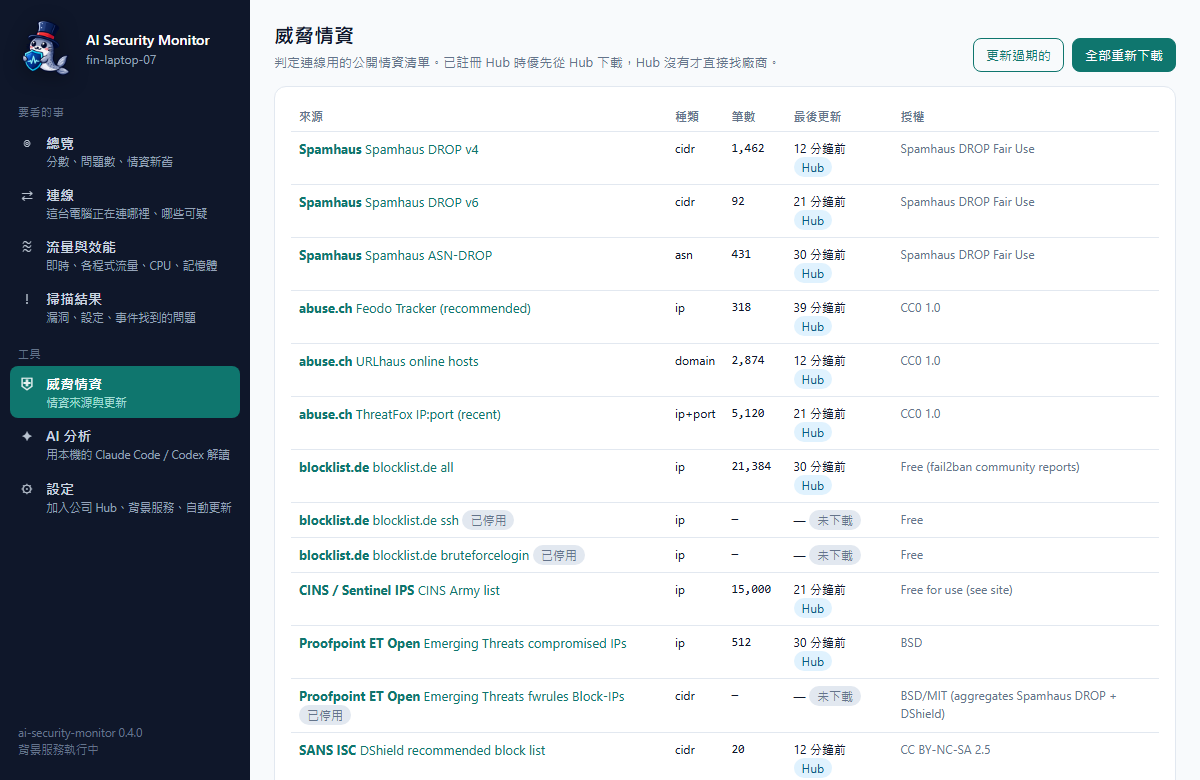
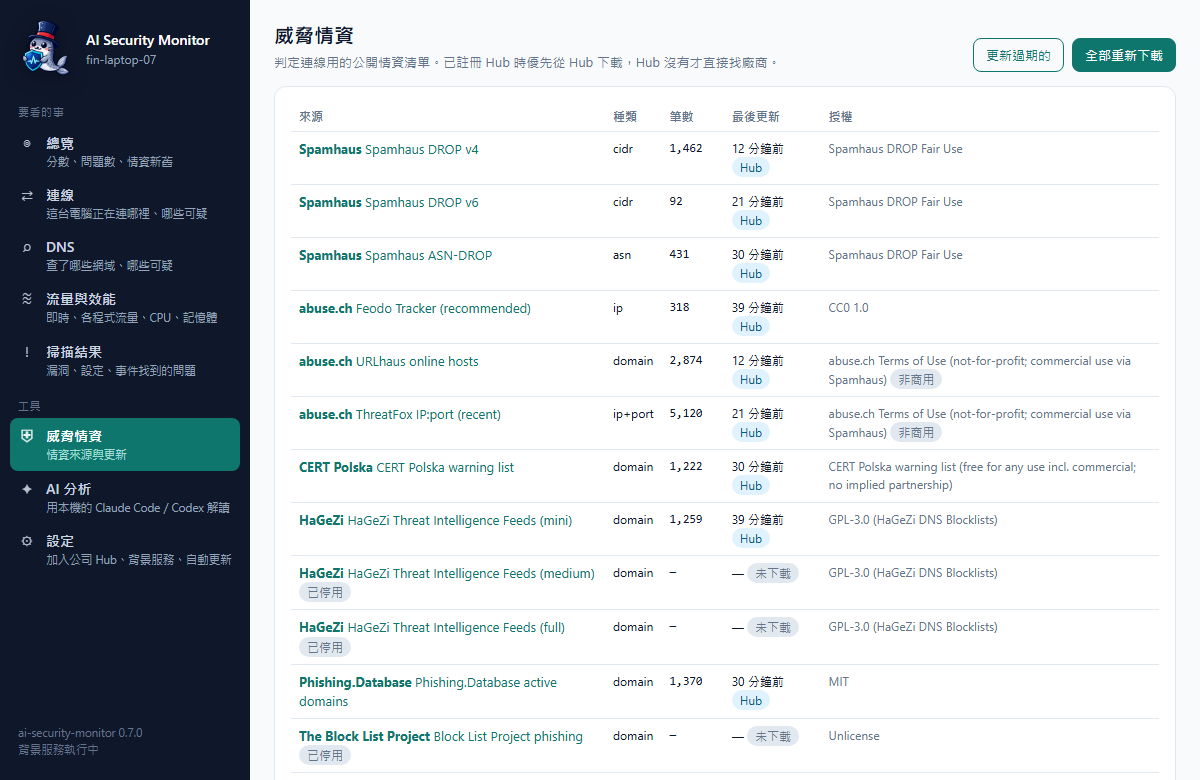
docs+feat(intel): explain non-commercial sources in the README; Hub defaults to non-commercial; compose versions
- README (zh/en): new section "Company or personal use?" with the first-launch
  screenshot, what each choice does, what counts as non-commercial, and every
  non-commercial-only source (DShield, URLhaus, ThreatFox, AbuseIPDB free, FireHOL
  level1, ET block list, Phishing Army, GreyNoise/CrowdSec/OTX) with the reason and
  what to do for company use; FAQ links to it
- registry: FireHOL level1 and ET block list include DShield, so they are now
  non-commercial only; notes describe the new behaviour
- Hub: intel usage defaults to personal / non-commercial; company deployments switch
  on the web page, via AI_SECURITY_MONITOR_HUB_INTEL_USAGE, or with
  docker/compose.commercial.yml (compose.noncommercial.yml for the other way), which
  overlay any Hub compose file
- desktop screenshot script: first-run dialog shot, non-commercial badges

diff --git a/hub/components/admin/IntelUsageSetting.tsx b/hub/components/admin/IntelUsageSetting.tsx
@@ -1,6 +1,6 @@
 'use client';
 
-// 情資頁的「情資來源授權」：Hub 是公司／商業用途（預設）還是個人／非商業用途。非商用才鏡像只限非商業用途的來源給主機。
+// 情資頁的「情資來源授權」：Hub 是公司／商業用途還是個人／非商業用途（預設）。非商用才鏡像只限非商業用途的來源給主機。
 import { useRouter } from 'next/navigation';
 import { useState } from 'react';
 import { useT } from '@/lib/i18n/client';
@@ -48,11 +48,11 @@ export function IntelUsageSetting({ usage, locked, sources }: { usage: Usage; lo
   return (
     <div className="space-y-2">
       <p className="text-sm text-slate-600 dark:text-slate-300">
-        {t('情資來源各有授權：有些只准個人或非營利使用（例如 DShield、URLhaus），公司或營利用途要另外向廠商買授權。選「公司／商業用途」時 Hub 只鏡像可以商用的來源。')}
+        {t('情資來源各有授權：有些只准個人或非營利使用（例如 DShield、URLhaus），公司或營利用途要另外向廠商買授權。Hub 預設是個人／非商業用途；公司部署請改成「公司／商業用途」，Hub 就只鏡像可以商用的來源。')}
       </p>
       <div className="flex flex-col gap-2 sm:flex-row">
-        {option('commercial', t('公司／商業用途（預設）'), t('只鏡像可以商用的情資來源，大部分來源都可以。'))}
-        {option('noncommercial', t('個人／非商業用途'), t('另外鏡像 {n} 個只限非商業用途的來源：{list}', { n: sources.length, list: sources.join('、') }))}
+        {option('commercial', t('公司／商業用途'), t('只鏡像可以商用的情資來源，大部分來源都可以。'))}
+        {option('noncommercial', t('個人／非商業用途（預設）'), t('另外鏡像 {n} 個只限非商業用途的來源：{list}', { n: sources.length, list: sources.join('、') }))}
       </div>
       {locked ? <p className="text-xs text-slate-500">{t('由環境變數 AI_SECURITY_MONITOR_HUB_INTEL_USAGE 指定，網頁上不能改。')}</p> : null}
       <p className="text-xs text-slate-500">{t('各台電腦的桌面版第一次打開時也會自己問一次，兩邊分開設定：主機選商用時，就算 Hub 有鏡像也不會用。')}</p>

diff --git a/hub/tests/routes/feeds.test.ts b/hub/tests/routes/feeds.test.ts
@@ -62,6 +62,7 @@ afterAll(() => {
 });
 
 beforeEach(() => {
+  process.env.ASA_HUB_INTEL_USAGE = 'commercial';
   process.env.ASA_HUB_ADMIN_SECRET = 'test-admin';
   process.env.ASA_HUB_CLIENT_SECRETS = 'client-a';
   process.env.ASA_HUB_SNAPSHOT_MIN_INTERVAL_MS = '0';
@@ -168,8 +169,12 @@ describe('feed mirror', () => {
 
   it('mirrors noncommercial-only feeds only when the Hub is set to noncommercial use', async () => {
     const put = (usage: unknown, headers = admin) => usagePut(req('/api/v1/admin/intel-usage', { method: 'PUT', body: { usage }, headers }));
-    expect(await (await usageGet(req('/api/v1/admin/intel-usage', { headers: admin }))).json()).toEqual({ usage: 'commercial', source: 'default' });
-    // 商用（預設）：不同步、不給主機
+    delete process.env.ASA_HUB_INTEL_USAGE;
+    resetEnvForTests();
+    // 沒設定：預設個人／非商業用途
+    expect(await (await usageGet(req('/api/v1/admin/intel-usage', { headers: admin }))).json()).toEqual({ usage: 'noncommercial', source: 'default' });
+    expect((await put('commercial')).status).toBe(200);
+    // 商用：不同步、不給主機
     expect((await syncFeeds({ force: true })).map((o) => o.feed_id)).not.toContain('test-nc');
     expect((await feedRoute(req('/api/v1/feeds/test-nc', { headers: client }), { params: Promise.resolve({ id: 'test-nc' }) })).status).toBe(404);
 
@@ -178,8 +183,11 @@ describe('feed mirror', () => {
     const r = await put('noncommercial');
     expect(r.status).toBe(200);
     expect(await r.json()).toEqual({ usage: 'noncommercial', source: 'settings' });
-    const [a] = await db.select().from(auditLog).where(eq(auditLog.action, 'intel_usage.updated'));
-    expect(a.details).toMatchObject({ before: 'commercial', after: 'noncommercial' });
+    const updates = await db.select().from(auditLog).where(eq(auditLog.action, 'intel_usage.updated'));
+    expect(updates.map((u) => u.details)).toEqual([
+      expect.objectContaining({ before: 'noncommercial', after: 'commercial' }),
+      expect.objectContaining({ before: 'commercial', after: 'noncommercial' }),
+    ]);
 
     resetMirrorStateForTests();
     expect((await syncFeeds({ force: true })).map((o) => o.feed_id)).toContain('test-nc');

diff --git a/hub/messages/en.ts b/hub/messages/en.ts
@@ -1661,4 +1661,7 @@ export const en: Record<string, string> = {
   '另外鏡像 {n} 個只限非商業用途的來源：{list}': 'Also mirror {n} sources limited to non-commercial use: {list}',
   '由環境變數 AI_SECURITY_MONITOR_HUB_INTEL_USAGE 指定，網頁上不能改。': 'Set by the AI_SECURITY_MONITOR_HUB_INTEL_USAGE environment variable; it cannot be changed here.',
   '各台電腦的桌面版第一次打開時也會自己問一次，兩邊分開設定：主機選商用時，就算 Hub 有鏡像也不會用。': 'Each computer\'s desktop app also asks once on first launch; the two are set separately, and a host set to business use ignores these sources even when the Hub mirrors them.',
+  '公司／商業用途': 'Company / business use',
+  '個人／非商業用途（預設）': 'Personal / non-commercial use (default)',
+  '情資來源各有授權：有些只准個人或非營利使用（例如 DShield、URLhaus），公司或營利用途要另外向廠商買授權。Hub 預設是個人／非商業用途；公司部署請改成「公司／商業用途」，Hub 就只鏡像可以商用的來源。': 'Each threat-intel source has its own licence: some may only be used for personal or non-profit purposes (for example DShield, URLhaus), and company or for-profit use needs a licence from the vendor. The Hub defaults to personal / non-commercial use; for a company deployment switch to "company / business use" and the Hub only mirrors sources licensed for commercial use.',
 };

diff --git a/hub/lib/intel/usage.ts b/hub/lib/intel/usage.ts
@@ -1,5 +1,5 @@
 // Hub 的情資使用情境：只限非商業用途的來源（授權 commercial_ok=false，例如 DShield、URLhaus、ThreatFox）只在「非商用」時鏡像給主機。
-// 環境變數 AI_SECURITY_MONITOR_HUB_INTEL_USAGE（commercial／noncommercial）優先並鎖定網頁設定；預設商用（Hub 多半是公司在跑）。
+// 環境變數 AI_SECURITY_MONITOR_HUB_INTEL_USAGE（commercial／noncommercial）優先並鎖定網頁設定；預設非商用（公司部署請在網頁或環境變數改成 commercial）。
 import { eq } from 'drizzle-orm';
 import { settings } from '@/drizzle/schema';
 import type { DB } from '@/lib/db';
@@ -17,7 +17,7 @@ export async function getIntelUsage(db: DB): Promise<{ usage: IntelUsage; source
   if (isIntelUsage(fromEnv)) return { usage: fromEnv, source: 'env' };
   const row = (await db.select().from(settings).where(eq(settings.key, KEY)).limit(1))[0];
   if (isIntelUsage(row?.value)) return { usage: row.value, source: 'settings' };
-  return { usage: 'commercial', source: 'default' };
+  return { usage: 'noncommercial', source: 'default' };
 }
 
 /** 能不能鏡像只限非商業用途的來源（讀不到資料庫時當作不能）。 */

diff --git a/agent/src/firewall/select.rs b/agent/src/firewall/select.rs
@@ -184,7 +184,12 @@ mod tests {
         let al = Allowlist::default();
         let kg = KnownGood::load();
         let local: Vec<IpAddr> = vec!["93.184.216.34".parse().unwrap()];
-        let (nets, st) = select(&db, &opts(&local, &al, &kg));
+        // FireHOL level1 內含 DShield，只限非商用：這裡測的是保留／過寬網段，所以允許非商用
+        let o = SelectOpts {
+            allow_noncommercial: true,
+            ..opts(&local, &al, &kg)
+        };
+        let (nets, st) = select(&db, &o);
         let s: Vec<String> = nets.iter().map(|n| n.to_string()).collect();
         assert_eq!(s, vec!["45.0.0.0/15"]);
         assert_eq!(st.skipped_reserved, 6);

diff --git a/README.en.md b/README.en.md
@@ -177,6 +177,52 @@ ai-security-monitor service install --system --yes  # install as a service that 
 Without `--yes`, commands that change the system (`service install`, blocking an IP, …) only print what they would do and change nothing; add `--yes` once you've read it.
 To report to a Hub, join it as in [scenario B](#scenario-b-i-manage-several-computers-in-an-office) (`enroll --auto` works on servers too).
 
+## Company or personal use? (threat intel licences)
+
+**The program itself is MIT licensed: free for companies and individuals.** The threat intel it uses to decide whether an IP or domain is bad, however, is downloaded from vendors, and **each has its own licence**: most allow commercial use, a few only allow personal or non-profit use.
+
+So the desktop app asks once, the first time you open it:
+
+![First launch: is this computer for company or personal use?](docs/images/desktop-first-run.png)
+
+| You choose | What happens |
+|---|---|
+| **Company / business use** | Only sources licensed for commercial use (19 are on by default, e.g. abuse.ch Feodo Tracker, Spamhaus DROP, CISA KEV, Emerging Threats compromised, CINS Army, HaGeZi, CERT.PL). The non-commercial-only sources below are **not downloaded, matched, blocked or queried**. |
+| **Personal / non-commercial use** | The non-commercial-only sources below are turned on as well, for better coverage. |
+| Not chosen yet (command line, servers) | Treated as company use. |
+
+**What counts as non-commercial?** Usually: your own computer at home, students' coursework or research, non-profit organisations. **Company computers, your own studio, and computers you use for paid work all count as commercial**; choose company use. Vendors define it slightly differently; if in doubt, choose company use or ask the vendor. (This is a summary, not legal advice; terms change, so check again before commercial use.)
+
+**Sources limited to non-commercial use, and why:**
+
+| Source | What it provides | Why non-commercial only | For company use |
+|---|---|---|---|
+| **DShield** (SANS Internet Storm Center) | Networks scanning and attacking others most often right now | Licensed CC BY-NC-SA 2.5; "NC" means no commercial use, and **alerting on it counts as use** | Ask SANS ISC |
+| **URLhaus** (abuse.ch) | URLs and hosts spreading malware | Since 2025-11-04 abuse.ch's terms only allow not-for-profit use | Subscribe via Spamhaus |
+| **ThreatFox** (abuse.ch) | Addresses malware calls back to (IP:port, e.g. attackers' command servers) | Same as above | Subscribe via Spamhaus |
+| **AbuseIPDB free plan** | Online lookup: how many people reported an IP for abuse | The free plan (1,000 lookups a day) forbids commercial use | Buy a paid AbuseIPDB plan |
+| **FireHOL level1** | Block list aggregated from several sources | **Includes DShield**, so the whole list inherits DShield's restriction | Use the individual sources instead (Spamhaus DROP, Feodo, … are on by default) |
+| Emerging Threats block list (off by default) | Aggregated block list | Also includes DShield | Same as above |
+| Phishing Army (off by default) | Phishing domains | Licence limited to non-commercial use | Ask Phishing Army |
+| GreyNoise Community, CrowdSec CTI, AlienVault OTX (off by default, need your own key) | Online IP reputation | Free / community plans are non-commercial | Buy the vendor's commercial plan |
+
+**Where to change it:**
+
+- **Desktop app**: Settings → Threat intel licensing. The Threat intel page marks these sources *non-commercial*, and *not used (non-commercial only)* under company use.
+- **Command line / servers**: `ai-security-monitor config set intel.usage commercial` (or `noncommercial`).
+- **Security Hub**: Threat intel → Threat intel licensing. The Hub **defaults to personal / non-commercial use** (it also mirrors the non-commercial-only sources to every computer); **for a company deployment switch it to company use**, and the Hub only mirrors sources licensed for commercial use. The Hub and each computer are set separately: a computer set to company use ignores these sources even if the Hub mirrors them.
+- **Pick the version when deploying with Docker**: add one more file after your usual compose file (server, standalone and protective-DNS variants all work); the web setting is then locked:
+
+  ```bash
+  # Company / business use
+  docker compose -f docker/compose.yml -f docker/compose.commercial.yml --env-file .env up -d
+  # Personal / non-commercial use
+  docker compose -f docker/compose.yml -f docker/compose.noncommercial.yml --env-file .env up -d
+  ```
+
+  Setting `AI_SECURITY_MONITOR_HUB_INTEL_USAGE=commercial` (or `noncommercial`) in `.env` does the same.
+- **Bought a commercial licence?** Choose personal / non-commercial use to turn the sources on, then turn off the ones you did not license with `ai-security-monitor intel disable <id>`.
+
 ## FAQ
 
 <details>
@@ -252,7 +298,7 @@ If nothing works, ask the administrator for the Hub URL: enter it under "Or ente
 <details>
 <summary><b>Can I use it commercially for free?</b></summary>
 
-The code is MIT licensed, so yes. Some threat intel sources, however, only allow non-commercial use (DShield, URLhaus, ThreatFox, the free AbuseIPDB plan, …). The desktop app asks on first launch whether it is for company / business or personal / non-commercial use: company uses only sources licensed for commercial use, personal also turns on the non-commercial-only ones; change it later under Settings → Threat intel licensing. On the command line use `ai-security-monitor config set intel.usage commercial` (or `noncommercial`); the Hub has the same setting under Threat intel → Threat intel licensing (business use by default). See [Data sources and licenses](#data-sources-and-licenses).
+The code is MIT licensed, so yes. Some threat intel sources, however, only allow non-commercial use (DShield, URLhaus, ThreatFox, the free AbuseIPDB plan, FireHOL level1, …). The desktop app asks on first launch whether it is for company / business or personal / non-commercial use: company uses only sources licensed for commercial use, personal also turns on the non-commercial-only ones. The Hub defaults to personal / non-commercial use; switch it to company use for a company deployment (with Docker: `docker/compose.commercial.yml`). Why each source is limited, what to do for company use and where to change it: [Company or personal use?](#company-or-personal-use-threat-intel-licences).
 </details>
 
 <details>

diff --git a/CHANGELOG.md b/CHANGELOG.md
@@ -9,8 +9,8 @@
   **升級注意**：之前用 `--profile dns` 跑防護 DNS 的，改用含防護 DNS 的那份（`-f docker/compose.dns.yml`，單機版 `compose.standalone.dns.yml`）。
 - 資安報告的危險／可疑 IP 表格：「判定」欄不再擠成一字一行，危險標紅、可疑標橘。README 截圖全部依 0.7.0 重拍（示範的防護 DNS 伺服器顯示在線）。
 - **macOS 桌面版不再顯示「已損毀」**：桌面版沒有 Apple 開發者簽章，改用 ad-hoc 簽章把整個 .app 簽好（發版時用 `codesign --verify` 檢查），Apple Silicon 上從「已損毀，無法打開」變成可以在「系統設定 → 隱私權與安全性」按「強制打開」。另外新增一行安裝：`curl -fsSL https://github.com/markku636/ai-security-monitor/releases/latest/download/install.sh | sh -s -- --desktop`，依晶片下載 dmg、比對 SHA256、裝進「應用程式」，用 curl 下載不會被加上隔離屬性，打開時完全不會被 Gatekeeper 擋。
-- **第一次打開時選「公司用」或「個人用」，只限非商業用途的情資來源只在個人用時開啟**：DShield、URLhaus、ThreatFox、Phishing Army、AbuseIPDB／GreyNoise／CrowdSec／OTX 的免費版只准個人或非營利使用。桌面版第一次打開會問「這台電腦是公司用，還是個人用？」：選「公司／商業用途」只用可以商用的來源，選「個人／非商業用途」另外開啟這些來源；之後在「設定 → 情資來源授權」改，威脅情資頁會標出哪些來源「只限非商用」、哪些因此「未使用」。商用情境下這些來源不下載、不比對、不封鎖，線上查詢也不用。命令列：`ai-security-monitor config set intel.usage commercial|noncommercial`（舊的 `intel.allow_noncommercial true|false` 一樣有效）；`intel enable` 只限非商用的來源時會提示先改使用情境。Hub 也有同樣的設定（「威脅情資 → 情資來源授權」，或環境變數 `AI_SECURITY_MONITOR_HUB_INTEL_USAGE`），預設商用：只鏡像可以商用的來源。
-  **升級注意**：還沒選過使用情境的電腦（命令列版、伺服器、還沒打開新版桌面版的）一律當作商用，URLhaus、ThreatFox、DShield 會停用；個人或非營利使用請執行 `ai-security-monitor config set intel.usage noncommercial`。Hub 預設不再鏡像這三個來源，個人使用的 Hub 請到「威脅情資 → 情資來源授權」改成個人／非商業用途。
+- **第一次打開時選「公司用」或「個人用」，只限非商業用途的情資來源只在個人用時開啟**：DShield、URLhaus、ThreatFox、Phishing Army、AbuseIPDB／GreyNoise／CrowdSec／OTX 的免費版只准個人或非營利使用。桌面版第一次打開會問「這台電腦是公司用，還是個人用？」：選「公司／商業用途」只用可以商用的來源，選「個人／非商業用途」另外開啟這些來源；之後在「設定 → 情資來源授權」改，威脅情資頁會標出哪些來源「只限非商用」、哪些因此「未使用」。商用情境下這些來源不下載、不比對、不封鎖，線上查詢也不用。命令列：`ai-security-monitor config set intel.usage commercial|noncommercial`（舊的 `intel.allow_noncommercial true|false` 一樣有效）；`intel enable` 只限非商用的來源時會提示先改使用情境。Hub 也有同樣的設定（「威脅情資 → 情資來源授權」、環境變數 `AI_SECURITY_MONITOR_HUB_INTEL_USAGE`，或 Docker 疊加 `docker/compose.commercial.yml`／`compose.noncommercial.yml`），預設個人／非商業用途；公司部署請改成公司／商業用途，Hub 就只鏡像可以商用的來源。FireHOL level1 與 Emerging Threats block list 內含 DShield，改標成只限非商用。
+  **升級注意**：還沒選過使用情境的電腦（命令列版、伺服器、還沒打開新版桌面版的）一律當作商用，URLhaus、ThreatFox、DShield 會停用；個人或非營利使用請執行 `ai-security-monitor config set intel.usage noncommercial`。**公司部署的 Hub 請到「威脅情資 → 情資來源授權」改成公司／商業用途**（或設 `AI_SECURITY_MONITOR_HUB_INTEL_USAGE=commercial`）。
 - **安全性修正**（自行檢查發現）：
   - Windows 系統服務：設定目錄（%ProgramData%\ai-security-monitor）原本繼承「一般使用者可以建立檔案」，一般使用者能放檔案給以 SYSTEM 執行的服務讀；現在安裝與每次服務啟動時都收緊成只有 SYSTEM 與 Administrators 能存取（擁有者改成 Administrators）。防護 DNS 自動還原只會寫 `/etc/resolv.conf`，Windows 還原腳本只放合法的 IP，不再照紀錄檔寫任意路徑。
   - 密鑰檔（secrets.json）在 Unix 上一建立就是 0600，不再有短暫可讀的空窗。

diff --git a/docs/docker.en.md b/docs/docker.en.md
@@ -53,6 +53,22 @@ docker compose -f docker/compose.standalone.yml --env-file .env up -d --remove-o
 
 Blocking switch, pointing devices at it and Linux host networking: see [dns-server.en.md](dns-server.en.md).
 
+## Commercial / non-commercial versions
+
+Some threat intel sources only allow personal or non-profit use (DShield, URLhaus, ThreatFox, …; see the README section [Company or personal use?](../README.en.md#company-or-personal-use-threat-intel-licences)). The Hub defaults to **personal / non-commercial use**; for a company deployment add one more file after any of the compose files above:
+
+| Version | Extra file | Intel the Hub mirrors to computers |
+|---|---|---|
+| Company / business use | `-f docker/compose.commercial.yml` | Only sources licensed for commercial use |
+| Personal / non-commercial use | `-f docker/compose.noncommercial.yml` | Also the non-commercial-only sources |
+
+```bash
+docker compose -f docker/compose.yml -f docker/compose.commercial.yml --env-file .env up -d
+docker compose -f docker/compose.standalone.dns.yml -f docker/compose.noncommercial.yml --env-file .env up -d
+```
+
+With either file the web setting (Threat intel → Threat intel licensing) is locked; without one you choose on the web page. Setting `AI_SECURITY_MONITOR_HUB_INTEL_USAGE=commercial` (or `noncommercial`) in `.env` does the same.
+
 ## Settings
 
 See [.env.example](../.env.example) for the full list. The important ones:

diff --git a/docs/docker.md b/docs/docker.md
@@ -53,6 +53,22 @@ docker compose -f docker/compose.standalone.yml --env-file .env up -d --remove-o
 
 封鎖開關、把裝置指過去、Linux 的 host 網路見 [dns-server.md](dns-server.md)。
 
+## 商用／非商用版本
+
+有些情資來源只准個人或非營利使用（DShield、URLhaus、ThreatFox…，見 README「[公司用還是個人用？](../README.md#公司用還是個人用情資來源的授權)」）。Hub 預設是**個人／非商業用途**；公司部署請在上面任何一份 compose 後面多疊一個檔：
+
+| 版本 | 多加的檔 | Hub 鏡像給各台電腦的情資 |
+|---|---|---|
+| 公司／商業用途 | `-f docker/compose.commercial.yml` | 只有可以商用的來源 |
+| 個人／非商業用途 | `-f docker/compose.noncommercial.yml` | 另外加上只限非商用的來源 |
+
+```bash
+docker compose -f docker/compose.yml -f docker/compose.commercial.yml --env-file .env up -d
+docker compose -f docker/compose.standalone.dns.yml -f docker/compose.noncommercial.yml --env-file .env up -d
+```
+
+用了這兩個檔之一，Hub 網頁上的「威脅情資 → 情資來源授權」會鎖定；不加就在網頁上選。也可以直接在 `.env` 設 `AI_SECURITY_MONITOR_HUB_INTEL_USAGE=commercial`（或 `noncommercial`）。
+
 ## 設定
 
 完整清單見 [.env.example](../.env.example)。重點：
